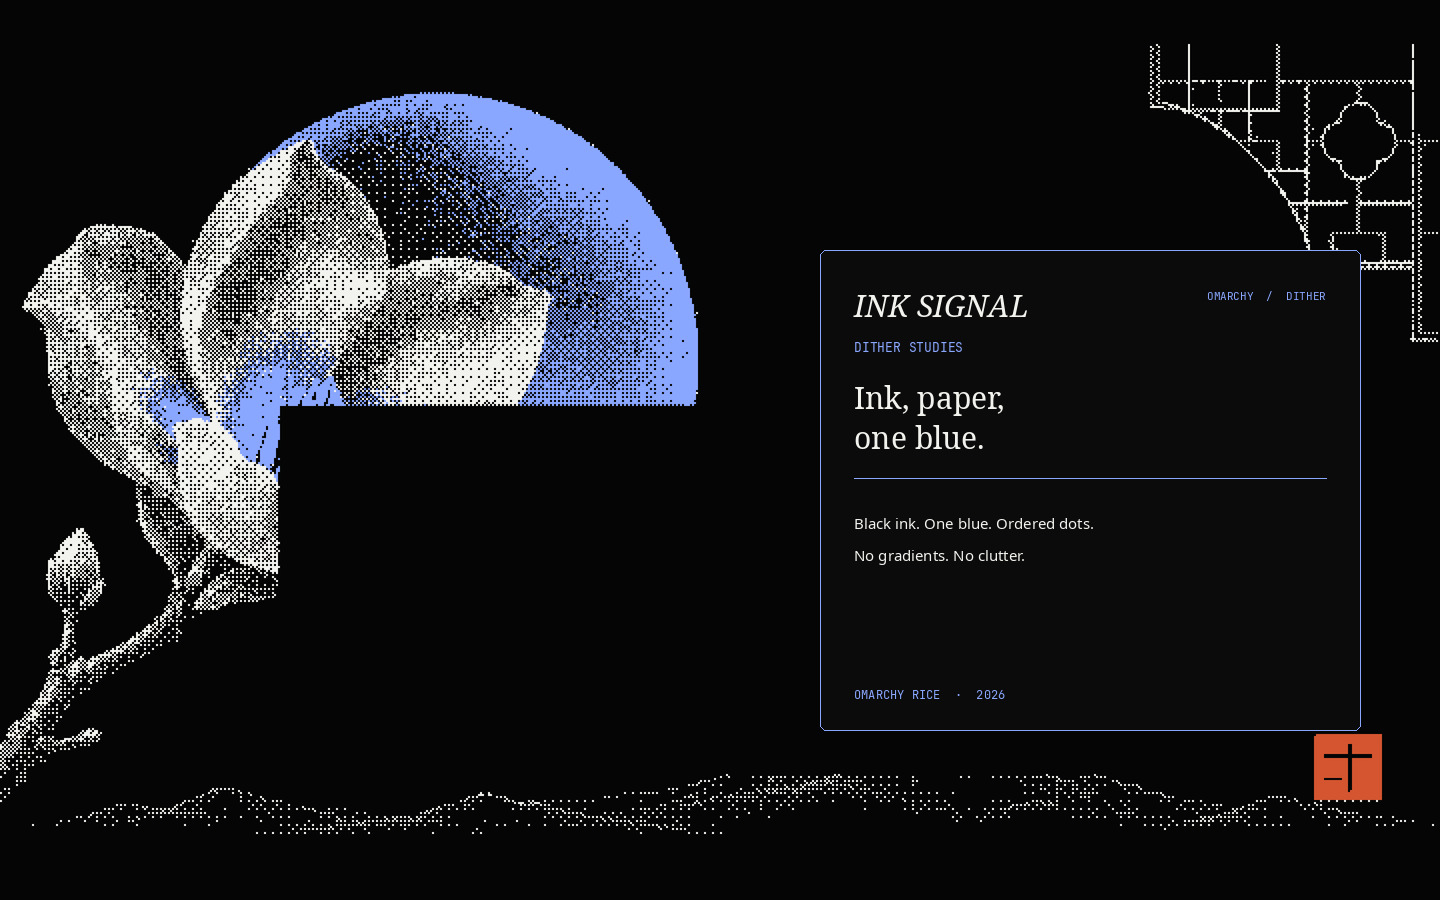
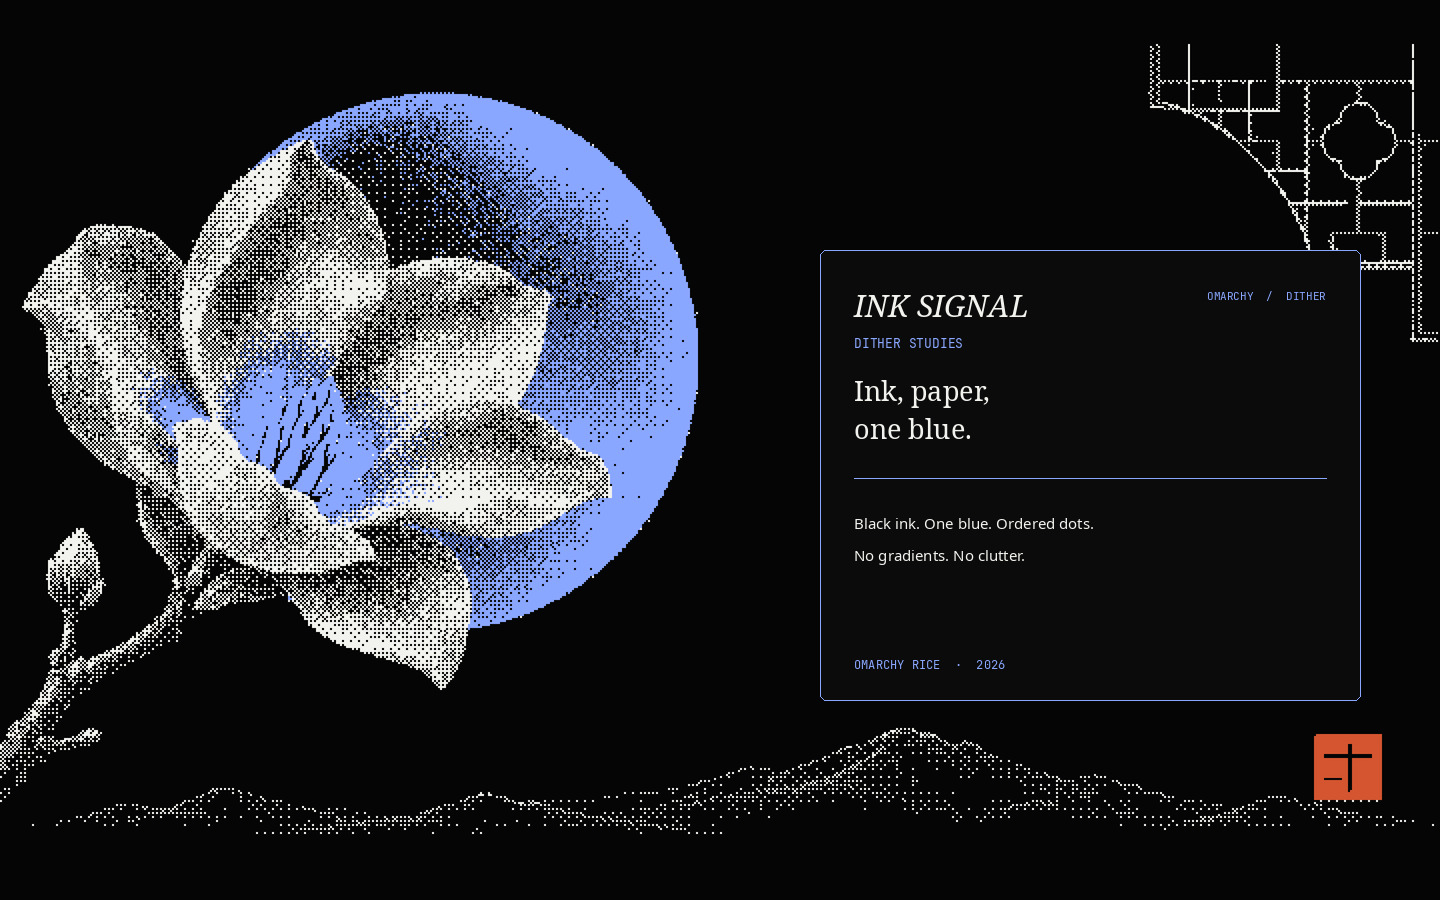
Fix night magnolia mask and add registry-ready root theme

diff --git a/README.md b/README.md
@@ -27,6 +27,14 @@ cd omarchy-ink-signal
 
 That installs both themes, applies **Ink Signal**, and sets **Poppy** as the background. Nothing is installed system-wide and no `sudo` is used.
 
+The repository root is also a directly installable Omarchy light theme:
+
+```bash
+omarchy theme install https://github.com/Niraven/omarchy-ink-signal
+```
+
+Use the installer if you want both variants, the night wallpapers, typography, and extras.
+
 ### Options
 
 | Flag | What it does |
